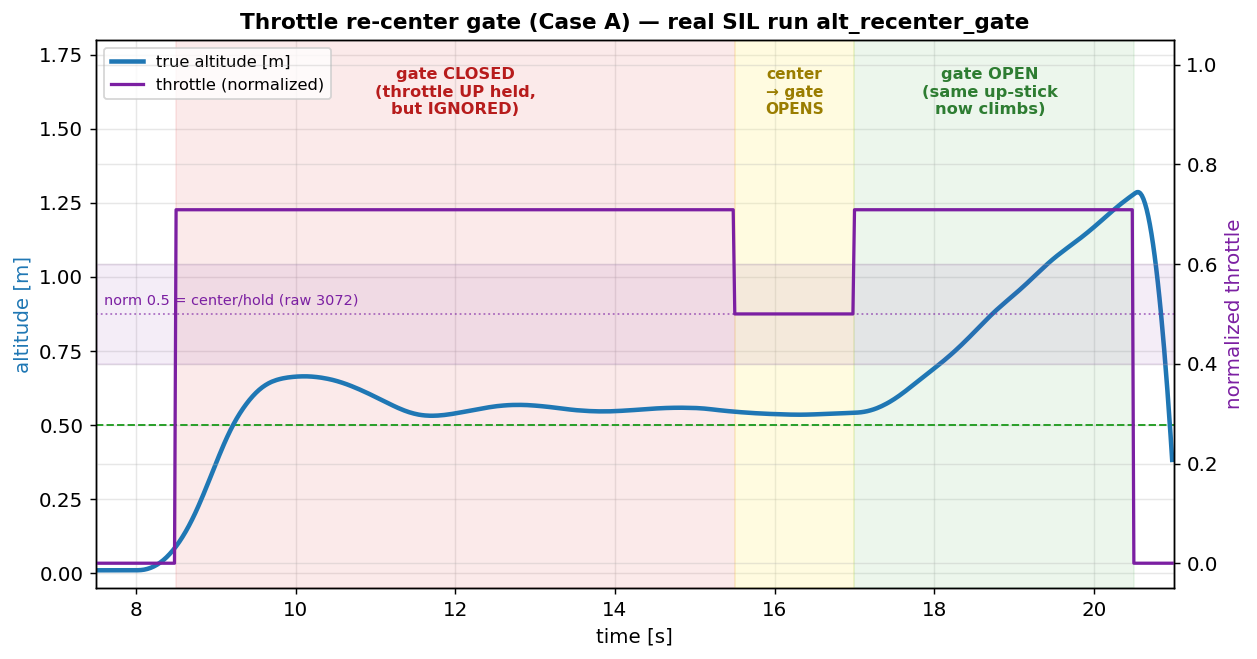
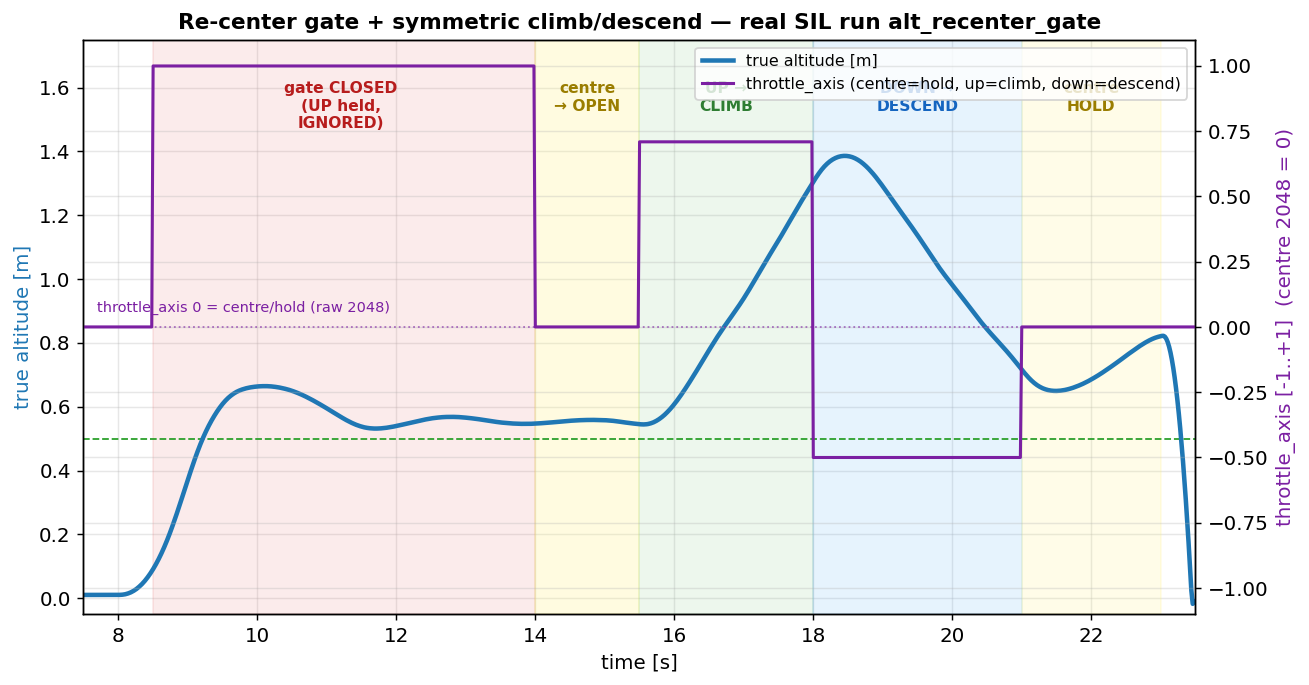
fix(control,command): symmetric ALT_HOLD throttle (centre 2048 = hold), separate climb/descent rates
The vehicle_new ALT_HOLD/POS_HOLD throttle convention was inverted vs the spring-
centred hardware and the flight-proven legacy vehicle — a bug that would make manual
altitude control unflyable on real hardware (caught by a user question, pre-flight).

This fixes ALT_HOLD altitude control. The problem was:
1. The throttle stick is SPRING-CENTRED at raw 2048 (protocol/spec/messages.yaml; the
   controller calibrates centre 2048 and sends Throttle = 4095 - stick).
2. vehicle_new reused the STABILIZE throttle [0,1] (2048->0, lower half clipped) and
   computed ALT_HOLD climb as (throttle-0.5)*2*max_climb, putting HOLD at raw 3072.
3. So the spring rest (2048) read as -0.5 m/s DESCEND: releasing the throttle descended
   instead of hovering, and hover required holding the spring stick at mid-up (3072).
4. The flight-proven legacy altitude_controller.hpp uses centre 2048 = hold with a
   symmetric (raw-2048)/2048 in [-1,+1]. SIL passed only because it injected the
   firmware's own (wrong) convention and does not model the spring (ALT_HOLD was never
   hardware-tested).

With this fix (symmetric scheme, matching the legacy vehicle):
1. CommandSetpoint gains throttle_axis = normalizeAxis(throttle) in [-1,+1] (centre
   2048 = 0); command.cpp populates it (no deadband — the controller owns the centre
   deadzone and the gate). STABILIZE/ACRO keep throttle [0,1] (centre = off), unchanged.
2. ALT_HOLD/POS_HOLD: centre 2048 = HOLD, up = climb, down = descend (the stick raises/
[…]

diff --git a/firmware/vehicle_new/components/sf_controller_pid/pid_controller.cpp b/firmware/vehicle_new/components/sf_controller_pid/pid_controller.cpp
@@ -83,6 +83,9 @@ void PidController::loadParams()
     params::get_float("altitude.alt.ti", alt_pos_.ti);
     params::get_float("altitude.vel.kp", alt_vel_.kp);
     params::get_float("altitude.vel.ti", alt_vel_.ti);
+    // Manual ALT_HOLD stick rates (separately tunable) / 手動 ALT_HOLD スティック速度（別々に調整可）
+    params::get_float("altitude.climb_rate",   max_climb_rate_);
+    params::get_float("altitude.descent_rate", max_descent_rate_);
 
     // Position control / 位置制御
     params::get_float("position.pos.kp", pos_x_.kp);
@@ -345,31 +348,40 @@ ControlOutput PidController::compute(
             // 追従。スティックを戻すと到達した高度を保持する。
             if (capture_alt_) { alt_setpoint_ = altitude; capture_alt_ = false; }
 
-            // Throttle re-center gate (2026-06-14 redesign): after an (auto-)takeoff
-            // or an in-flight switch INTO ALT/POS the stick may rest off-center, which
-            // would jump the altitude if read as a climb command. The gate keeps the
-            // stick from commanding altitude until it is first seen within the center
-            // deadzone, then opens. Guidance flights are unaffected (they own the
-            // altitude target and never reach the stick path below).
-            // スロットル再センターゲート（2026-06-14 再設計）: （自動）離陸後や飛行中の
-            // ALT/POS 進入直後はスティックが中央から外れていることがあり、それを上昇指令と
-            // 読むと高度がジャンプする。ゲートはスティックが初めて中央デッドゾーン内に入る
-            // まで高度指令を抑え、その後開く。誘導飛行は影響を受けない（高度目標を所有し、
-            // 下のスティック経路に達しない）。
-            if (!throttle_recentered_ &&
-                fabsf(setpoint.throttle - 0.5f) < stick_deadzone_) {
+            // Throttle stick → vertical command (symmetric, spring-centred throttle).
+            // throttle_axis ∈ [-1,+1] with centre(2048)=0: centre = HOLD, up = climb (up
+            // to max_climb_rate_), down = descend (up to max_descent_rate_) — the stick
+            // raises/lowers the TARGET altitude (flight-proven legacy vehicle scheme).
+            // スロットルスティック → 鉛直指令（対称、バネ中央スロットル）。throttle_axis ∈
+            // [-1,+1]、中央(2048)=0: 中央=ホールド、上=上昇（max_climb_rate_ まで）、
+            // 下=降下（max_descent_rate_ まで）— スティックで目標高度を上下する（旧 vehicle
+            // 実績方式）。
+            const float ta = setpoint.throttle_axis;
+
+            // Re-center gate: after an (auto-)takeoff or an in-flight switch INTO ALT/POS
+            // the stick may rest off-center (e.g. STABILIZE hover throttle is up), which
+            // would jump the altitude. The gate suppresses the command until the stick
+            // first returns to the center deadzone (= the spring rest), then opens — the
+            // legacy "release the spring stick to unlock" behavior. Guidance/API own the
+            // target via the walking setpoint and never reach this stick path.
+            // 再センターゲート: （自動）離陸後や飛行中の ALT/POS 進入直後はスティックが中央
+            // から外れていることがあり（例: STABILIZE のホバースロットルは上）、高度がジャンプ
+            // する。ゲートはスティックが初めて中央デッドゾーン（=バネ静止）に戻るまで指令を抑え、
+            // その後開く — 旧来の「バネ式は離せば解除」。誘導/API は歩く設定点で目標を所有し、
+            // このスティック経路に達しない。
+            if (!throttle_recentered_ && fabsf(ta) < stick_deadzone_) {
                 throttle_recentered_ = true;
             }
 
-            // Stick → climb rate. Suppressed while guidance owns the altitude target
-            // (in an API flight the throttle rests at the BOTTOM — not a descend
-            // command) and until the re-center gate has opened.
-            // スティック → 上昇率。誘導が高度目標を所有する間（API 飛行ではスロットルは
-            // 下端のまま＝降下指令ではない）と、再センターゲートが開くまでは無効化。
             float climb_rate_sp = 0;
             if (throttle_recentered_ && !guidance_active_ &&
-                fabsf(setpoint.throttle - 0.5f) > stick_deadzone_) {
-                climb_rate_sp = (setpoint.throttle - 0.5f) * 2.0f * max_climb_rate_;
+                fabsf(ta) > stick_deadzone_) {
+                // Rescale beyond the deadzone to [0..1], then to the climb or descent
+                // rate (separate limits). / デッドゾーン外を [0..1] に再スケールし上昇/降下
+                // 速度（別リミット）へ。
+                const float mag = (fabsf(ta) - stick_deadzone_) / (1.0f - stick_deadzone_);
+                climb_rate_sp = (ta > 0.0f) ? (mag * max_climb_rate_)
+                                            : (-mag * max_descent_rate_);
                 alt_setpoint_ = altitude;   // track while moving / 移動中は追従
             }
 

diff --git a/firmware/vehicle_new/components/sf_core/params.cpp b/firmware/vehicle_new/components/sf_core/params.cpp
@@ -188,6 +188,15 @@ namespace param_vars {
     float alt_alt_ti      = 7.0f;
     float alt_vel_kp      = 0.1f;
     float alt_vel_ti      = 2.5f;
+    // ALT_HOLD manual stick rates (separately tunable). The throttle stick is
+    // spring-centred (centre = hold); push up → climb at climb_rate, push down →
+    // descend at descent_rate. Mirrors the flight-proven legacy vehicle's
+    // MAX_CLIMB_RATE / MAX_DESCENT_RATE (separate constants).
+    // ALT_HOLD の手動スティック速度（別々にチューニング可）。スロットルはバネ中央
+    // （中央=ホールド）、上=climb_rate で上昇・下=descent_rate で降下。旧 vehicle の
+    // MAX_CLIMB_RATE / MAX_DESCENT_RATE（別定数）を踏襲。
+    float alt_climb_rate   = 0.5f;   // [m/s]
+    float alt_descent_rate = 0.5f;   // [m/s]
 
     // Position control
     float pos_pos_kp      = 1.0f;
@@ -352,6 +361,8 @@ static const ParamEntry table[] = {
     {"altitude.alt.ti",   ParamType::FLOAT, &alt_alt_ti,  7.0f,  0.1f, 100.0f, &notifyControllerReload},
     {"altitude.vel.kp",   ParamType::FLOAT, &alt_vel_kp,  0.1f,  0.0f, 10.0f,  &notifyControllerReload},
     {"altitude.vel.ti",   ParamType::FLOAT, &alt_vel_ti,  2.5f,  0.1f, 100.0f, &notifyControllerReload},
+    {"altitude.climb_rate",   ParamType::FLOAT, &alt_climb_rate,   0.5f, 0.05f, 2.0f, &notifyControllerReload},
+    {"altitude.descent_rate", ParamType::FLOAT, &alt_descent_rate, 0.5f, 0.05f, 2.0f, &notifyControllerReload},
 
     // Position control
     {"position.pos.kp",   ParamType::FLOAT, &pos_pos_kp,  1.0f,  0.0f, 10.0f,  &notifyControllerReload},

diff --git a/firmware/vehicle_new/components/sf_controller_pid/include/pid_controller.hpp b/firmware/vehicle_new/components/sf_controller_pid/include/pid_controller.hpp
@@ -144,7 +144,15 @@ private:
     // 逆変換するため +12% の偏りは速度ループ積分（±0.15N 上限内）が吸収する。
     float max_thrust_     = 0.672f;  // [N] total (4 × 0.168 N per motor)
     float hover_thrust_   = 0.407f;  // [N] mg × 1.12 = 0.037·9.80665·1.12
-    float max_climb_rate_ = 0.5f;    // [m/s] (= legacy ALT_OUTPUT_MAX)
+    // ALT_HOLD manual stick rates (param altitude.climb_rate / .descent_rate, separately
+    // tunable). Throttle stick is spring-centred (centre=hold); up commands a climb up to
+    // max_climb_rate_, down a descent up to max_descent_rate_. Distinct from the AUTO rates
+    // (takeoff_climb_rate_ / landing_descent_rate_). Legacy vehicle's MAX_CLIMB/DESCENT_RATE.
+    // ALT_HOLD の手動スティック速度（param altitude.climb_rate / .descent_rate、別々に調整可）。
+    // スロットルはバネ中央（中央=ホールド）、上=max_climb_rate_ まで上昇・下=max_descent_rate_
+    // まで降下。自動レート（takeoff_climb_rate_ / landing_descent_rate_）とは別物。
+    float max_climb_rate_   = 0.5f;  // [m/s] up   (= legacy MAX_CLIMB_RATE / ALT_OUTPUT_MAX)
+    float max_descent_rate_ = 0.5f;  // [m/s] down (= legacy MAX_DESCENT_RATE)
     // Vertical-velocity-loop output limit [N]. Legacy vehicle/ VEL_OUTPUT_MAX:
     // the proven alt gains were tuned against this saturation, and it also bounds
     // how far the hover-thrust bias can pull the integrator.

diff --git a/firmware/vehicle_new/components/sf_core/include/data_types.hpp b/firmware/vehicle_new/components/sf_core/include/data_types.hpp
@@ -161,7 +161,14 @@ struct RawControlInput {
 /// Pilot/API command setpoint
 /// パイロット/APIコマンドセットポイント
 struct CommandSetpoint {
-    float throttle;       // Throttle [0..1]       / スロットル
+    float throttle;       // Throttle [0..1], centre(2048)=0=off, top=1=max thrust —
+                          // STABILIZE/ACRO direct thrust (upper half only, lower clipped).
+                          // スロットル [0..1]、中央(2048)=0=OFF、上端=1=最大推力（STABILIZE/ACRO の
+                          // 直接推力。上半分のみ、下半分はクリップ）
+    float throttle_axis;  // Symmetric throttle [-1..1], centre(2048)=0 — ALT_HOLD/POS_HOLD
+                          // vertical: 0=hold, up=climb, down=descend (target altitude up/down).
+                          // 対称スロットル [-1..1]、中央(2048)=0 — ALT_HOLD/POS_HOLD の鉛直:
+                          // 0=ホールド、上=上昇、下=降下（目標高度を上下）
     float roll;           // Roll command [-1..1]  / ロール指令
     float pitch;          // Pitch command [-1..1] / ピッチ指令
     float yaw;            // Yaw command [-1..1]   / ヨー指令

diff --git a/firmware/vehicle_new/components/sf_command/command.cpp b/firmware/vehicle_new/components/sf_command/command.cpp
@@ -114,7 +114,14 @@ float CommandProcessor::applyDeadband(float value) const
 void CommandProcessor::publishSetpoint(const RawControlInput& raw)
 {
     CommandSetpoint sp = {};
-    sp.throttle  = normalizeThrottle(raw.throttle);                  // no deadband
+    sp.throttle      = normalizeThrottle(raw.throttle);              // [0..1] STABILIZE thrust
+    // Symmetric throttle axis for ALT_HOLD/POS_HOLD vertical: centre(2048)=0=hold,
+    // up=climb, down=descend. No deadband here — the controller owns the centre
+    // deadzone and the re-center gate (so it can see the raw centre crossing).
+    // ALT_HOLD/POS_HOLD 鉛直用の対称スロットル軸: 中央(2048)=0=ホールド、上=上昇、
+    // 下=降下。ここではデッドバンドを掛けない — 中央デッドゾーンと再センターゲートは
+    // 制御器が所有する（中央通過を生で見られるように）。
+    sp.throttle_axis = normalizeAxis(raw.throttle);                  // [-1..1] ALT_HOLD vertical
     sp.roll      = applyDeadband(normalizeAxis(raw.roll));
     sp.pitch     = applyDeadband(normalizeAxis(raw.pitch));
     sp.yaw       = applyDeadband(normalizeAxis(raw.yaw));
